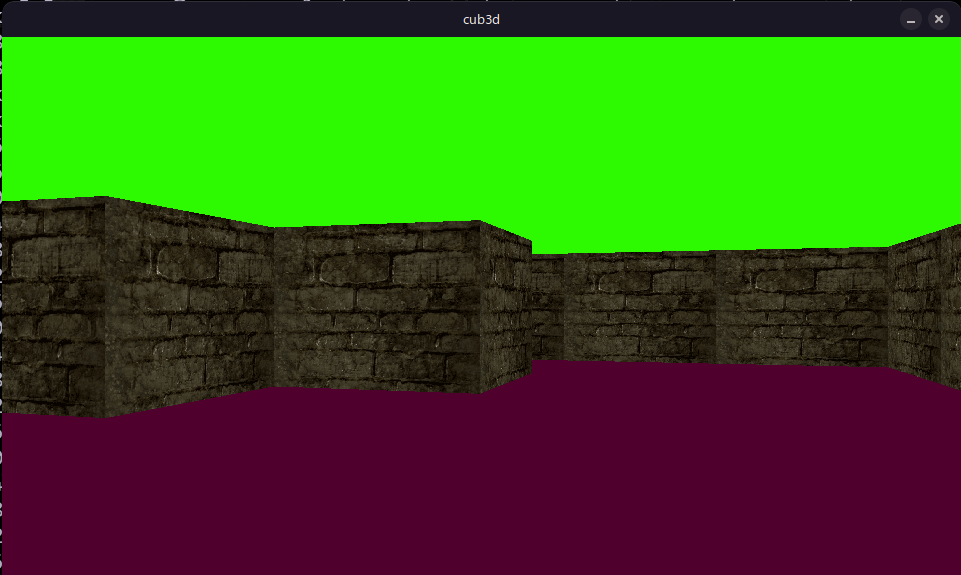
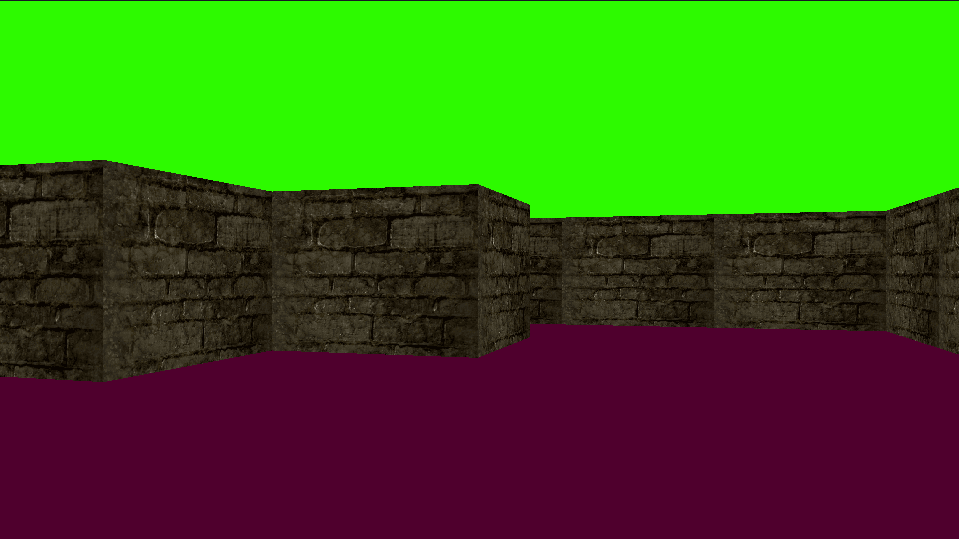
README update

Changed region(s): [[0.0, 0.2968, 1.0, 0.7421], [0.0, 0.0, 1.0, 0.0891]]

diff --git a/README.md b/README.md
@@ -4,7 +4,7 @@ A **Dark Souls–themed raycasting engine**, built from scratch in C as the `cub
 
 The mandatory version is a classic raycaster: textured walls and WASD + arrow-key controls. The bonus version turns it into an actual mini dungeon crawler: animated doors, a minimap, wandering enemies, an FPS counter, and a swingable sword.
 
-![Gameplay Screenshot](media/gameplay_bonus_1.png)
+![Gameplay Screenshot](media/bonus_gameplay_screenshot.png)
 
 ![Gameplay Screenshot](media/gameplay_basic_1.png)
 
@@ -91,8 +91,6 @@ Maps live in `maps/`. Point the binary at any valid `.cub` file to start playing
 Doors open automatically as you approach them, and the minimap and FPS counter are always shown on-screen.
 
 ## Screenshots & video
-
-## Gameplay demo for bonus
 
 ### Mandatory
 ![hollow3d gameplay](media/demo_basic.gif)
